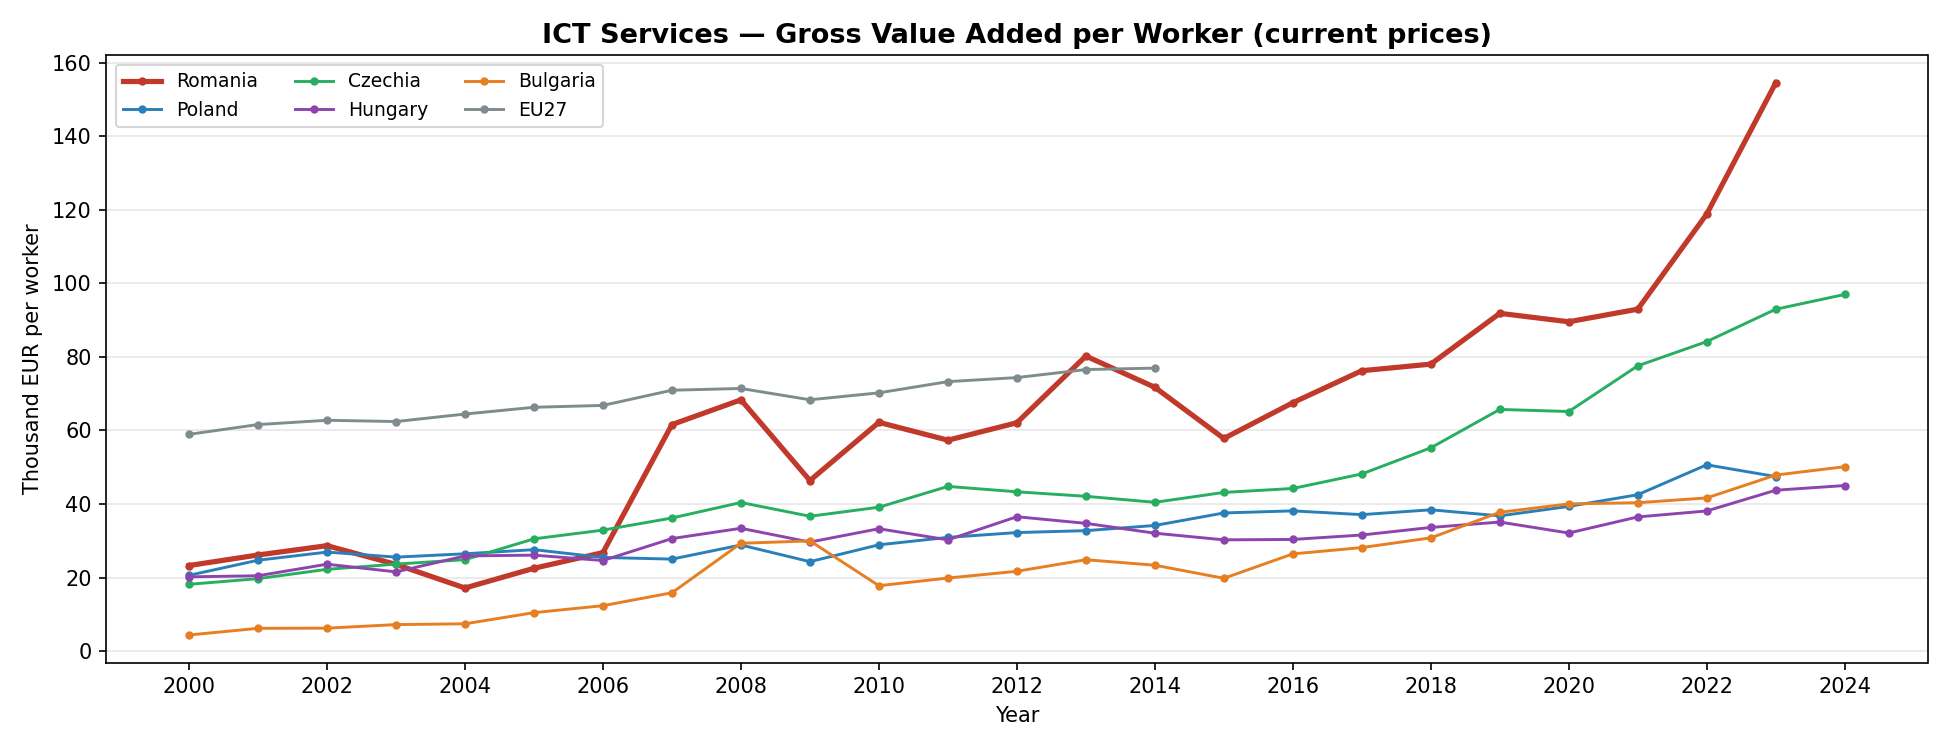
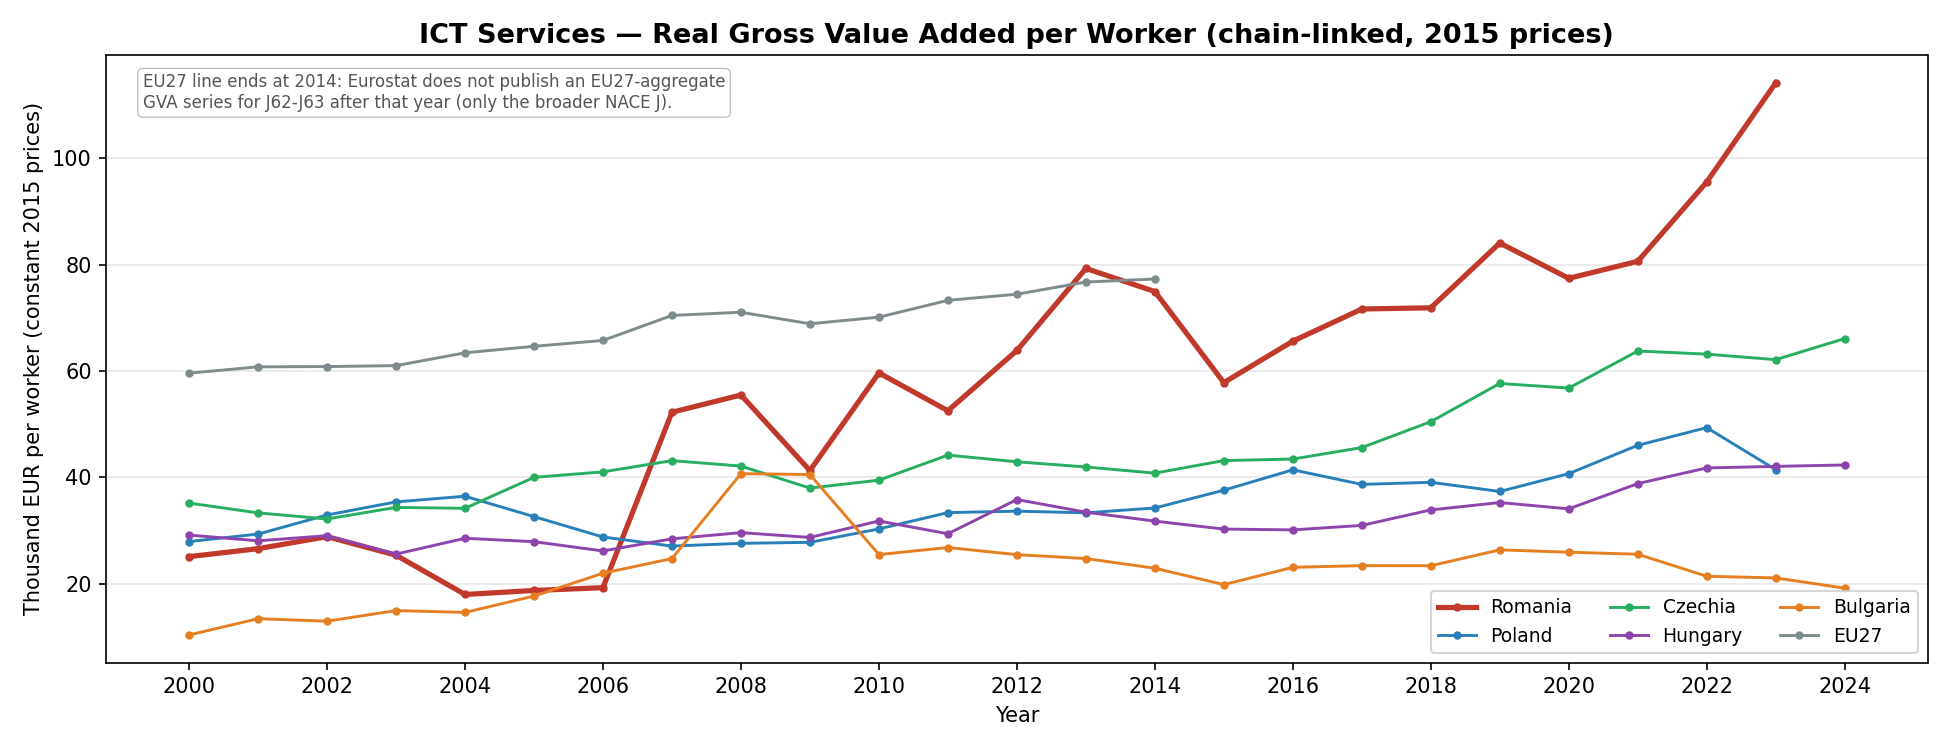
Switch productivity chart to real (chain-linked 2015) GVA per worker
The previous chart used nominal (CP_MEUR) GVA, which conflated real
productivity with Romania's 2022-2023 price surge and the nominal wage
shock from the November 2022 IT income-tax-exemption cap. In real terms
RO 2023 productivity is €114K/worker (constant 2015 prices), not €154K
nominal. The peer gap (RO vs CZ ~2x in real terms) is genuine and
reflects export composition + captive R&D centres, not inflation.

Report text now:
  - cites real figures and explains both 2014-15 and 2022-23 dips
    (employment-series revision and tax-cap-driven shift respectively);
  - drops the wrong "SBS methodology break" reference (this chart uses
    national accounts, not SBS);
  - notes the EU27 line stops at 2014 because Eurostat does not publish
    an EU27 J62-J63 aggregate after that year (only broader NACE J).

Also adds new raw-data CSVs for the chain-linked GVA and real
productivity series.

diff --git a/it-romania/02_boom.py b/it-romania/02_boom.py
@@ -175,15 +175,27 @@ print("  saved 02d_employment_index_growth.png")
 
 
 # ---------------------------------------------------------------------------
-# 5. Productivity — GVA per worker, EUR thousand (current prices)
+# 5. Productivity — real GVA per worker, EUR thousand (chain-linked 2015 prices)
 # ---------------------------------------------------------------------------
-print("Computing GVA per worker...")
-common_yrs = sorted(set(gva.index) & set(emp.index))
-# gva is in MEUR, emp is in thousand persons -> raw quotient is thousand EUR / person
-prod = gva.loc[common_yrs] / emp.loc[common_yrs]
+# Use REAL GVA (CLV15_MEUR) so the cross-country comparison and the time
+# series are not distorted by Romania's recent inflation surge and the
+# nominal wage-cost jump triggered by the November 2022 IT tax-exemption
+# cap (which inflated nominal GVA without representing real productivity).
+print("Fetching real ICT GVA (chain-linked 2015 prices) for productivity...")
+df_real = fetch_eurostat("nama_10_a64", {
+    "nace_r2": "J62_J63",
+    "na_item": "B1G",
+    "unit":    "CLV15_MEUR",   # chain-linked volumes, 2015 reference
+    "geo":     PEERS + ["EU27_2020"],
+})
+gva_real = to_year_indexed(df_real).dropna(how="all")
+save_csv(gva_real, "02e_ict_gva_real_clv15_meur")
+
+common_yrs = sorted(set(gva_real.index) & set(emp.index))
+prod = gva_real.loc[common_yrs] / emp.loc[common_yrs]
 prod = prod.dropna(how="all")
 prod.index.name = "year"
-save_csv(prod, "02e_ict_productivity_keur_per_worker")
+save_csv(prod, "02e_ict_productivity_real_keur_per_worker")
 
 prod_plot = prod[prod.index >= 2000]
 fig, ax = plt.subplots(figsize=(13, 5))
@@ -193,11 +205,18 @@ for geo in PEERS + ["EU27_2020"]:
     lw = 2.5 if geo == "RO" else 1.4
     ax.plot(prod_plot.index, prod_plot[geo], label=PEER_LABELS[geo],
             color=COLORS[geo], linewidth=lw, marker="o", markersize=3)
-ax.set_title("ICT Services — Gross Value Added per Worker (current prices)",
+ax.set_title("ICT Services — Real Gross Value Added per Worker (chain-linked, 2015 prices)",
              fontsize=13, fontweight="bold")
-ax.set_xlabel("Year"); ax.set_ylabel("Thousand EUR per worker")
+ax.set_xlabel("Year"); ax.set_ylabel("Thousand EUR per worker (constant 2015 prices)")
 ax.legend(ncol=3, fontsize=9); ax.grid(axis="y", alpha=0.3)
 ax.xaxis.set_major_locator(mticker.MultipleLocator(2))
+ax.annotate(
+    "EU27 line ends at 2014: Eurostat does not publish an EU27-aggregate\n"
+    "GVA series for J62-J63 after that year (only the broader NACE J).",
+    xy=(0.02, 0.97), xycoords="axes fraction",
+    fontsize=8, color="#555", va="top",
+    bbox=dict(boxstyle="round,pad=0.3", facecolor="white",
+              edgecolor="#bbb", linewidth=0.6))
 plt.tight_layout()
 plt.savefig(f"{OUTPUT}/02e_ict_productivity.png", dpi=150); plt.close()
 print("  saved 02e_ict_productivity.png")

diff --git a/it-romania/report.md b/it-romania/report.md
@@ -61,9 +61,11 @@ Indexed to 2000 = 100, Romanian ICT employment outpaced every CEE peer:
 
 ![02d_employment_index_growth.png](charts/02d_employment_index_growth.png)
 
-Productivity — value added per worker — rose alongside, but with characteristic Romanian noise (small numerators in some early years, methodology breaks between SBS regimes in 2020/21):
+Productivity — real (chain-linked, 2015 prices) value added per worker — rose alongside, from roughly €25K per worker in 2000 to **€80K by 2019** and **€114K in 2023**. Romania crossed above the EU27 average around 2013 and has stayed there since. Two visible discontinuities along the way: the 2009 dip reflects the financial-crisis GVA contraction; the 2014→2015 dip is a national-accounts employment revision (RO J62-J63 employment jumped from 51K to 76K while GVA stayed roughly flat, mechanically depressing the ratio for one year). The sharp 2022→2023 jump (from 96 to 114 thousand) is genuine in nominal terms but partly mechanical: employment fell from 122K to 106K in that year (Section 2 above) and real GVA stayed roughly flat, so the ratio rose even though output per remaining worker did not improve commensurately.
 
 ![02e_ict_productivity.png](charts/02e_ict_productivity.png)
+
+The real-terms gap to CEE peers (RO €114K vs Czechia €62K vs Poland €41K in 2023, constant 2015 prices) is genuine, not an inflation artifact — it reflects the export-oriented composition of Romanian IT, higher concentration of multinational captive R&D centres, and a smaller share of low-end body-shop work. (Chart note: the EU27 line stops at 2014 because Eurostat does not publish an EU27 aggregate for J62-J63 GVA after that year — only the broader NACE J aggregate.)
 
 The deeper structural pattern visible here is *export-led services growth* in a country that otherwise spent the 2000s and 2010s running large current-account deficits. IT was, and remains, one of very few Romanian sectors converging upward to Western European productivity levels rather than diverging downward.
 
